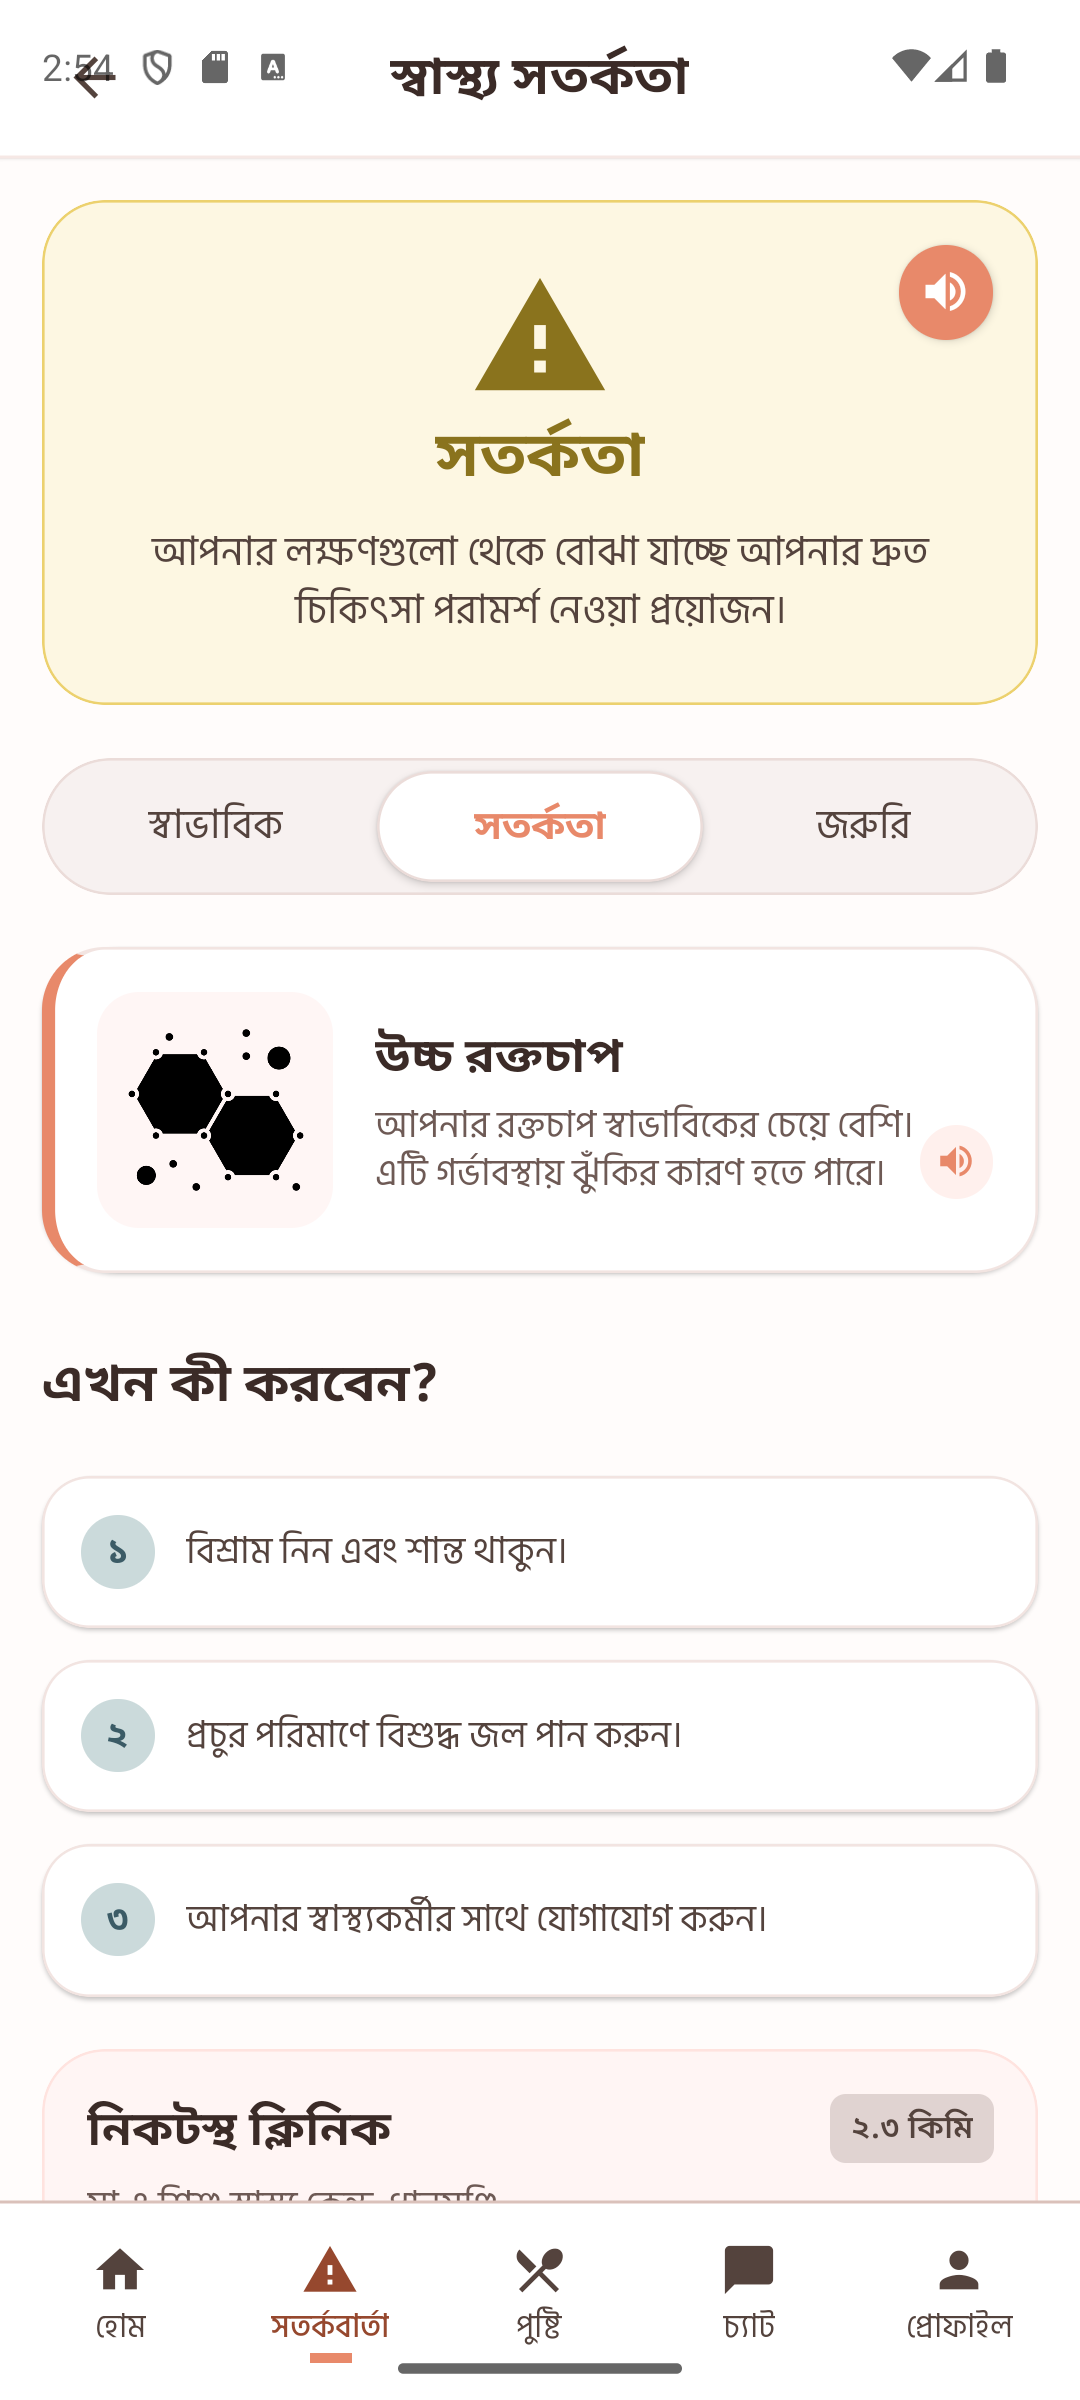
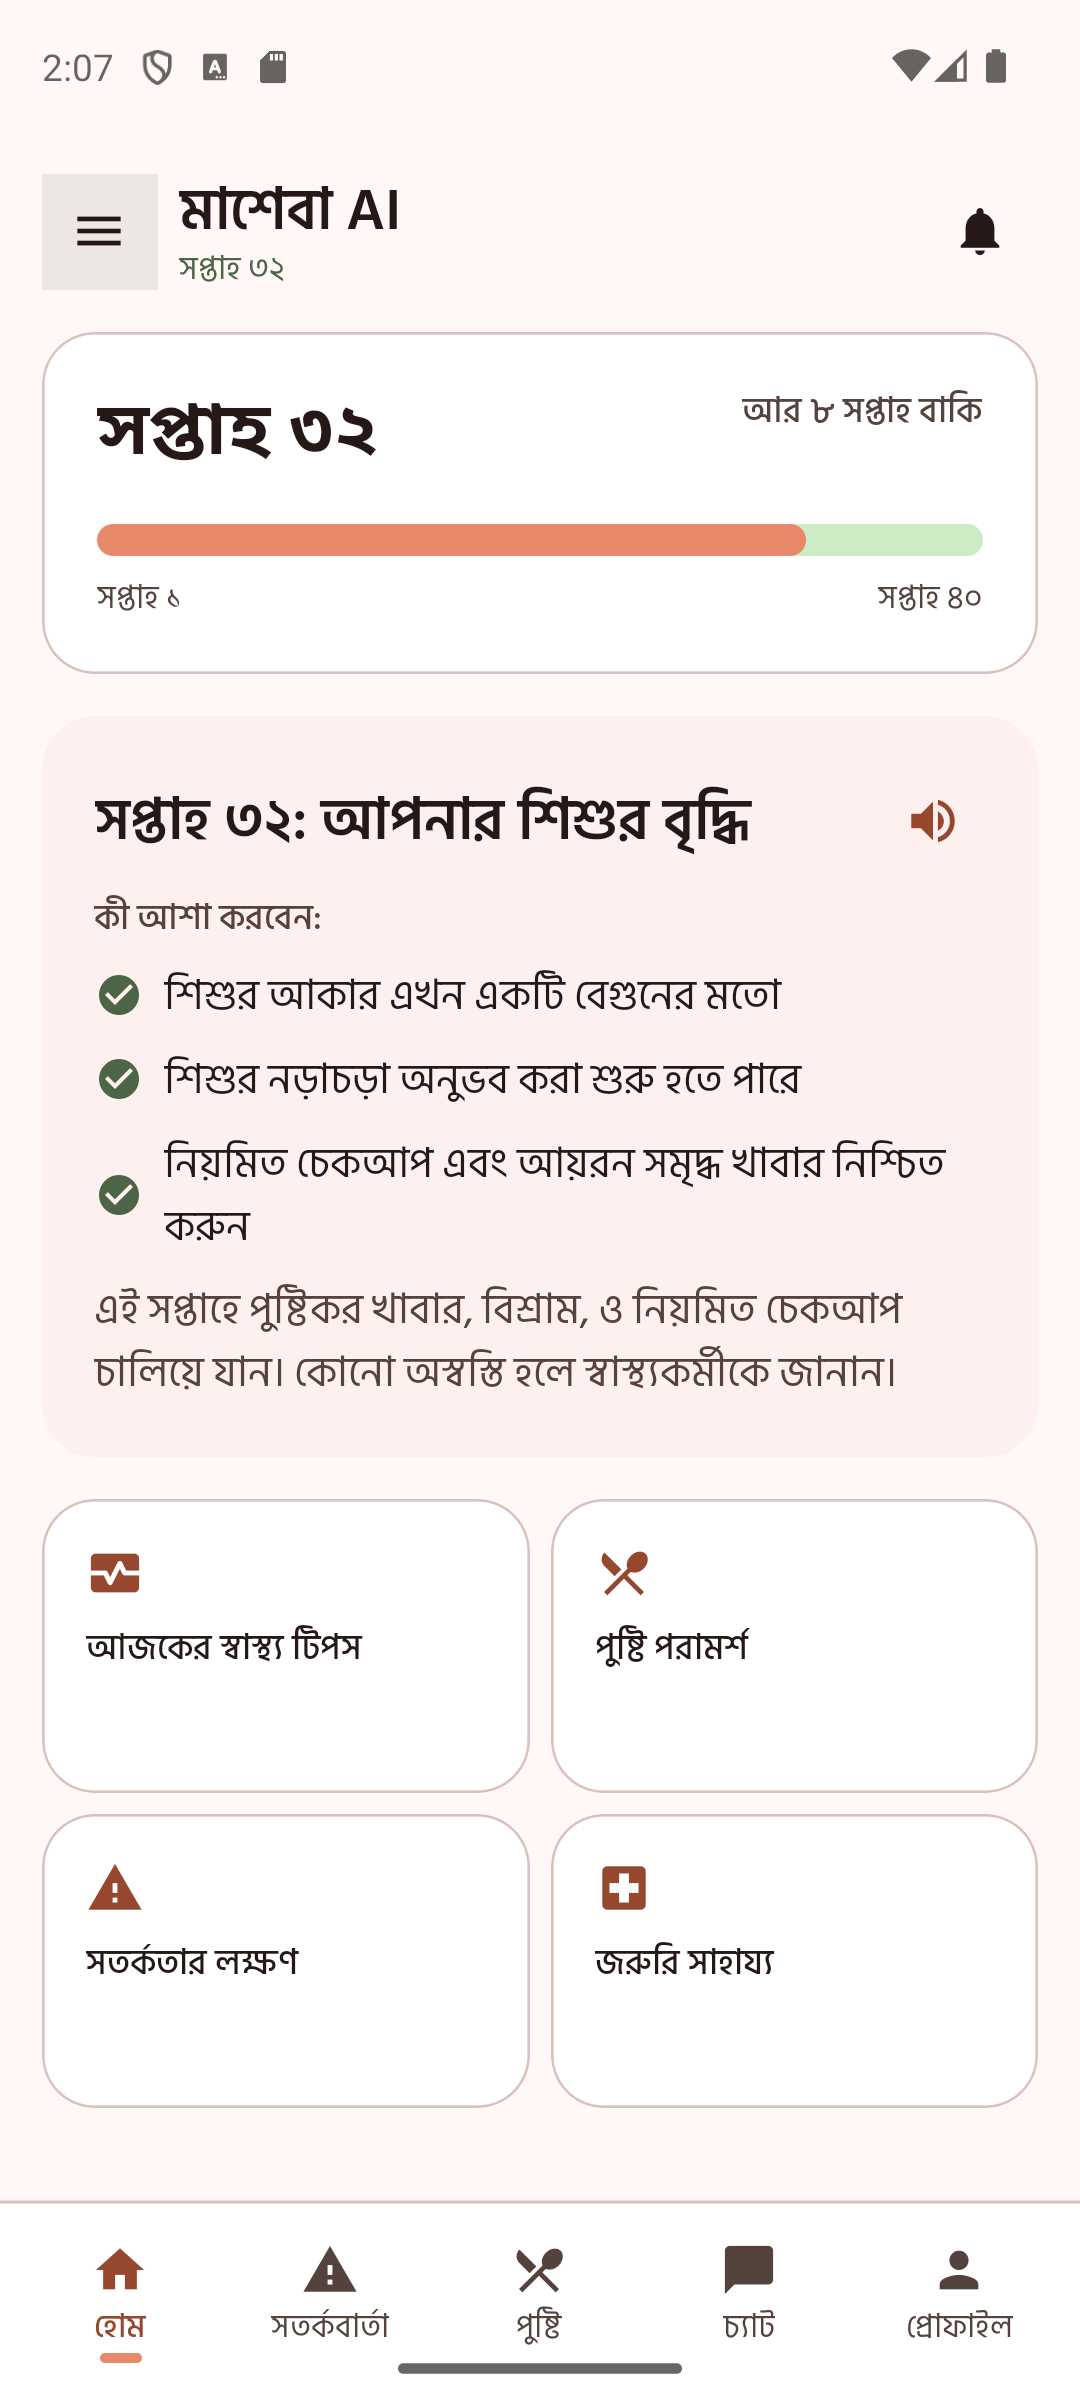
refining

diff --git a/mobile/src/features/mother/MotherDashboard.tsx b/mobile/src/features/mother/MotherDashboard.tsx
@@ -1,4 +1,4 @@
-import { Alert, Pressable, StyleSheet, Text, View } from "react-native";
+import { Alert, Pressable, StyleSheet, Text, View, ImageBackground } from "react-native";
 import { router } from "expo-router";
 import { Icon } from "@/components/ui/Icon";
 import { ProgressBar } from "@/components/progress/ProgressBar";
@@ -10,6 +10,13 @@ import { copy } from "@/data/stitchCopy.bn";
 import { colors, radius, spacing, typography } from "@/theme";
 import { toBanglaNumber } from "@/utils/banglaNumerals";
 import { callPhoneNumber } from "@/utils/phone";
+
+const imageByIcon = {
+  "monitor-heart": require("../../../assets/images/1.png"),
+  "restaurant-menu": require("../../../assets/images/2.png"),
+  "warning": require("../../../assets/images/3.png"),
+  "local-hospital": require("../../../assets/images/4.png")
+};
 
 export function MotherDashboard({
   variant = "home",
@@ -129,10 +136,15 @@ function ActionCard({
   title: string;
   onPress: () => void;
 }) {
+  const imageSource = imageByIcon[icon];
+
   return (
     <Pressable accessibilityLabel={title} accessibilityRole="button" style={styles.actionCard} onPress={onPress}>
-      <Icon name={icon} color={colors.primary} />
-      <Text style={styles.actionText}>{title}</Text>
+      <ImageBackground source={imageSource} style={styles.actionCardBackground} imageStyle={styles.actionCardImage}>
+        <View style={styles.actionTextOverlay}>
+          <Text style={styles.actionCardText} numberOfLines={2}>{title}</Text>
+        </View>
+      </ImageBackground>
     </Pressable>
   );
 }
@@ -230,19 +242,37 @@ const styles = StyleSheet.create({
     gap: spacing.sm
   },
   actionCard: {
-    backgroundColor: colors.surfaceContainerLowest,
-    borderColor: colors.outlineVariant,
-    borderRadius: radius.card,
-    borderWidth: 1,
     flexBasis: "48%",
     flexGrow: 1,
-    gap: spacing.sm,
-    minHeight: 112,
-    padding: spacing.base
+    minHeight: 120,
+    borderRadius: radius.card,
+    overflow: "hidden",
+    elevation: 2,
+    shadowColor: "#000",
+    shadowOffset: { width: 0, height: 1 },
+    shadowOpacity: 0.1,
+    shadowRadius: 2,
+    borderWidth: 1,
+    borderColor: "#ebdcd9"
   },
-  actionText: {
-    ...typography.label,
-    color: colors.onSurface
+  actionCardBackground: {
+    flex: 1,
+    justifyContent: "flex-end",
+    padding: 12
+  },
+  actionCardImage: {
+    borderRadius: radius.card
+  },
+  actionTextOverlay: {
+    alignSelf: "flex-start",
+    maxWidth: "65%"
+  },
+  actionCardText: {
+    fontSize: 14,
+    fontWeight: "bold",
+    color: "#54433d",
+    fontFamily: typography.body.fontFamily,
+    lineHeight: 18
   },
   askCard: {
     alignItems: "center",

diff --git a/mobile/app/(mother-tabs)/shotorkota.tsx b/mobile/app/(mother-tabs)/shotorkota.tsx
@@ -9,6 +9,7 @@ import {
   Linking,
   Alert
 } from "react-native";
+import { SafeAreaView } from "react-native-safe-area-context";
 import { router } from "expo-router";
 import { Icon } from "@/components/ui/Icon";
 import { colors, radius, spacing, typography } from "@/theme";
@@ -44,7 +45,7 @@ export default function ShotorkotaScreen() {
   };
 
   return (
-    <View style={styles.screen}>
+    <SafeAreaView style={styles.screen} edges={["top"]}>
       {/* Top Header */}
       <View style={styles.header}>
         <Pressable onPress={() => router.back()} style={styles.backButton}>
@@ -157,7 +158,7 @@ export default function ShotorkotaScreen() {
                 </View>
               ) : (
                 <Image
-                  source={require("../../assets/images/bp.png")}
+                  source={require("../../assets/images/Manual_Blood_Pressure.jpg")}
                   style={styles.detailsImage}
                   resizeMode="contain"
                 />
@@ -181,21 +182,6 @@ export default function ShotorkotaScreen() {
                   : "আপনার রক্তচাপ স্বাভাবিকের চেয়ে বেশি। এটি গর্ভাবস্থায় ঝুঁকির কারণ হতে পারে।"}
               </Text>
 
-              {/* Detail speaker */}
-              <Pressable
-                onPress={() =>
-                  toggleSpeech(
-                    activeTab === "NORMAL"
-                      ? "রক্তচাপ স্বাভাবিক। আপনার রক্তচাপ ১২০/৮০ এর মধ্যে রয়েছে।"
-                      : activeTab === "EMERGENCY"
-                      ? "তীব্র রক্তক্ষরণ বা খিঁচুনি। এটি অত্যন্ত বিপদজনক লক্ষণ।"
-                      : "উচ্চ রক্তচাপ। আপনার রক্তচাপ স্বাভাবিকের চেয়ে বেশি। এটি গর্ভাবস্থায় ঝুঁকির কারণ হতে পারে।"
-                  )
-                }
-                style={styles.detailSpeaker}
-              >
-                <Icon name="volume-up" color="#e8896a" size={16} />
-              </Pressable>
             </View>
           </View>
         </View>
@@ -295,7 +281,7 @@ export default function ShotorkotaScreen() {
           <Text style={styles.callButtonText}>এখনই ফোন করুন: ১৬৭৮৯</Text>
         </Pressable>
       </ScrollView>
-    </View>
+    </SafeAreaView>
   );
 }
 
@@ -491,17 +477,6 @@ const styles = StyleSheet.create({
     color: "#6e5a55",
     lineHeight: 18,
     fontFamily: typography.body.fontFamily
-  },
-  detailSpeaker: {
-    position: "absolute",
-    right: 0,
-    bottom: 0,
-    backgroundColor: "#fff0ed",
-    width: 28,
-    height: 28,
-    borderRadius: 14,
-    alignItems: "center",
-    justifyContent: "center"
   },
   actionTitle: {
     fontSize: 20,